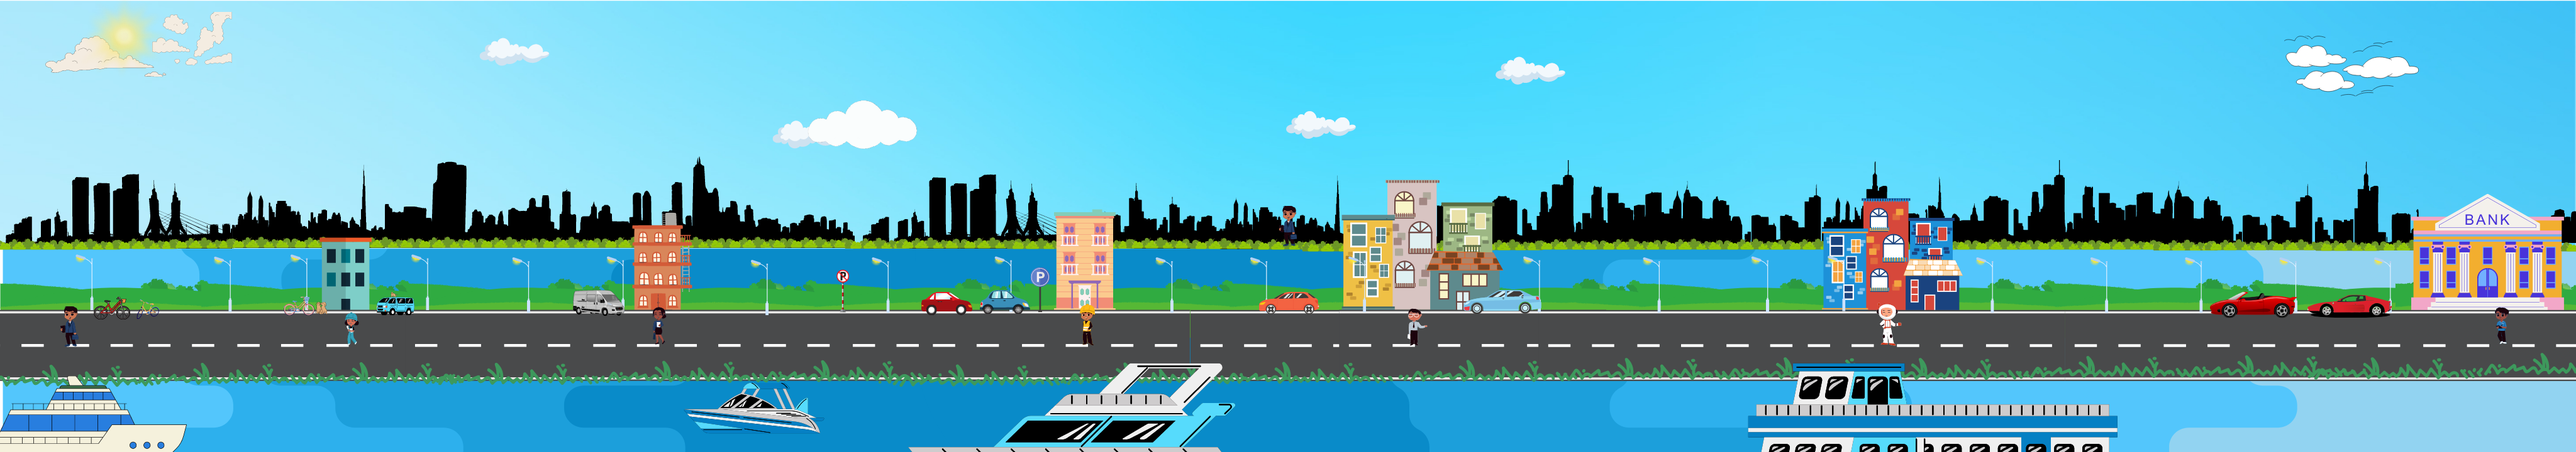
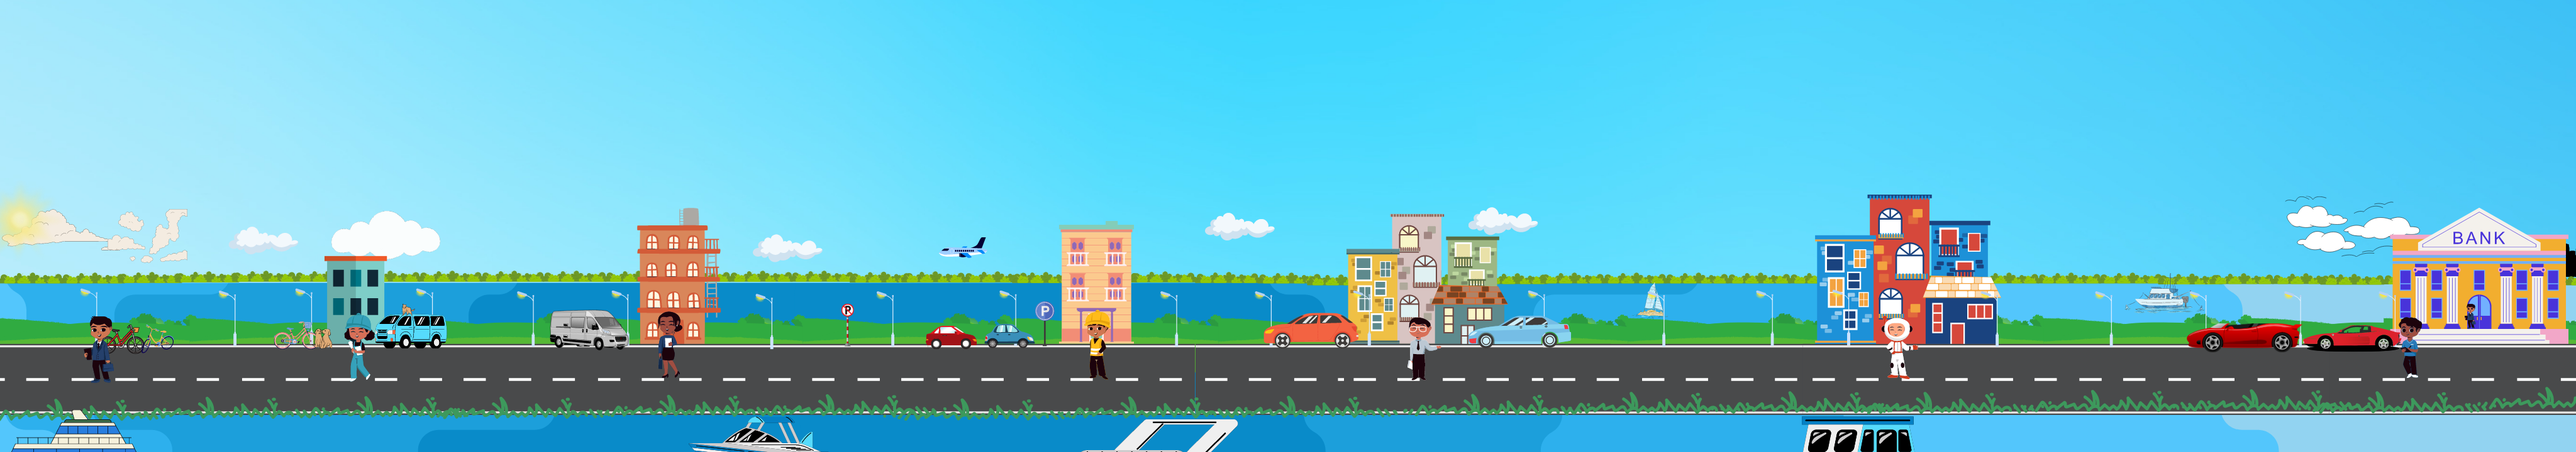
change background, add tile set as map instead of png, add object location for characters

diff --git a/lib/spite.dart b/lib/spite.dart
@@ -3,6 +3,7 @@ import 'package:flame/flame.dart';
 import 'package:flame/palette.dart';
 import 'package:flame/sprite.dart';
 import 'package:flame_texturepacker/flame_texturepacker.dart';
+import 'package:flame_tiled/flame_tiled.dart';
 import 'package:flutter/material.dart';
 import 'package:flame/game.dart';
 import 'package:flutter/services.dart';
@@ -15,19 +16,32 @@ class mySprite extends FlameGame with HasDraggables {
   late SpriteAnimation idle;
   late SpriteAnimation walkforward;
   late SpriteAnimation runBoyrun;
-  late SpriteComponent background;
+  // late SpriteComponent background;
+  late double mapWidth;
+  late double mapHeight;
+
+
+
   bool boyFlipped = false;
 
   Future<void> onLoad() async {
     super.onLoad();
     print('load assets');
 
-    Sprite backgroundSprite = await loadSprite('cityBackground.png');
-    background = SpriteComponent()
-      ..sprite = backgroundSprite
-      ..size = Vector2(4096, 720)
+    final homeMap = await TiledComponent.load('map.tmx',Vector2.all(16))
       ..position = Vector2(0, -300);
-    add(background);
+    
+    add(homeMap);
+
+    mapWidth = homeMap.tileMap.map.width * 16.0;
+    mapHeight = homeMap.tileMap.map.height * 16.0;
+
+    // Sprite backgroundSprite = await loadSprite('cityBackground.png');
+    // background = SpriteComponent()
+    //   ..sprite = backgroundSprite
+    //   ..size = Vector2(4096, 720)
+    //   ..position = Vector2(0, -300);
+    // // add(background);
 
     final spriteSheet = await fromJSONAtlas('walk.png', 'walk.json');
     // final spriteSheetIdle = await fromJSONAtlas('idle.png', 'idle.json');
@@ -41,7 +55,7 @@ class mySprite extends FlameGame with HasDraggables {
     runBoyrun = SpriteAnimation.spriteList(spriteSheetRunNew, stepTime: 0.04);
     boyWalk = SpriteAnimationComponent()
       ..animation = walkforward
-      ..position = Vector2(150, 230)
+      ..position = Vector2(150, 250)
       ..size = Vector2(60, 100)
       ..debugMode = true
       ..anchor = Anchor.center;
@@ -58,7 +72,7 @@ class mySprite extends FlameGame with HasDraggables {
     add(joystick);
 
     camera.followComponent(boyWalk,
-        worldBounds: Rect.fromLTRB(0, 0, background.size.x, background.size.y));
+        worldBounds: Rect.fromLTRB(0, 0, mapWidth, mapHeight));
   }
 
   @override
@@ -90,7 +104,7 @@ class mySprite extends FlameGame with HasDraggables {
     bool moveLeft = xpos[0] < 0;
     bool moveRight = xpos[0] > 0;
     if ((moveLeft && boyWalk.x > 25) ||
-        (moveRight && boyWalk.x < background.size.x - 25)) {
+        (moveRight && boyWalk.x < mapWidth - 25)) {
       if (xpos[0] > 0.8 || xpos[0] < -0.8) {
         boyWalk.animation = runBoyrun;
         boyWalk.position.add(xpos * 150 * dt);
